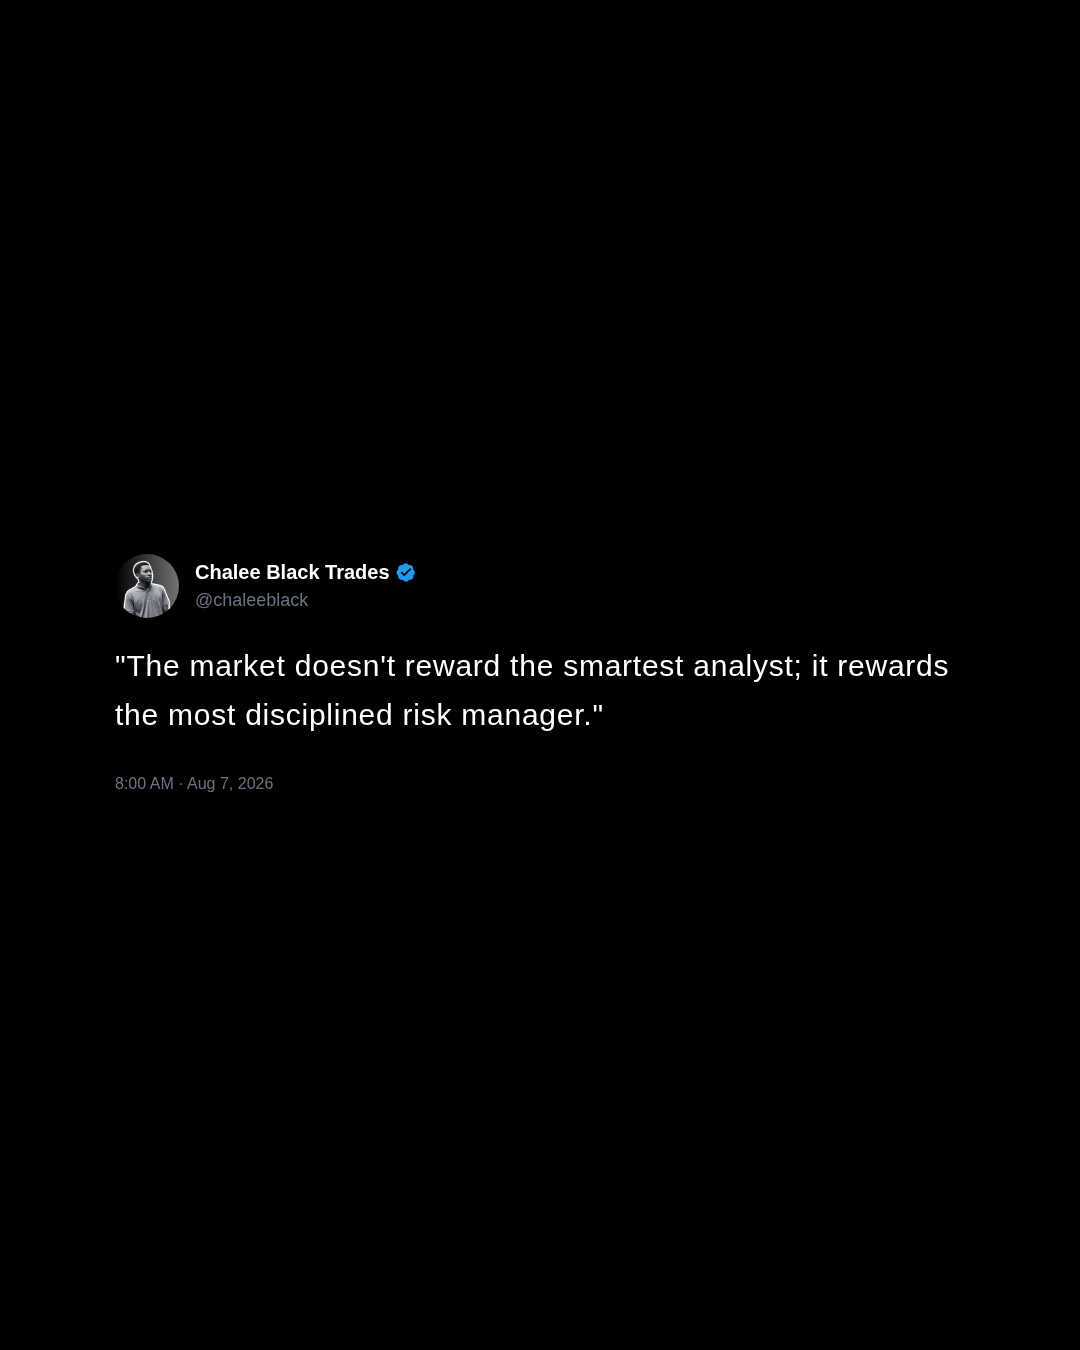
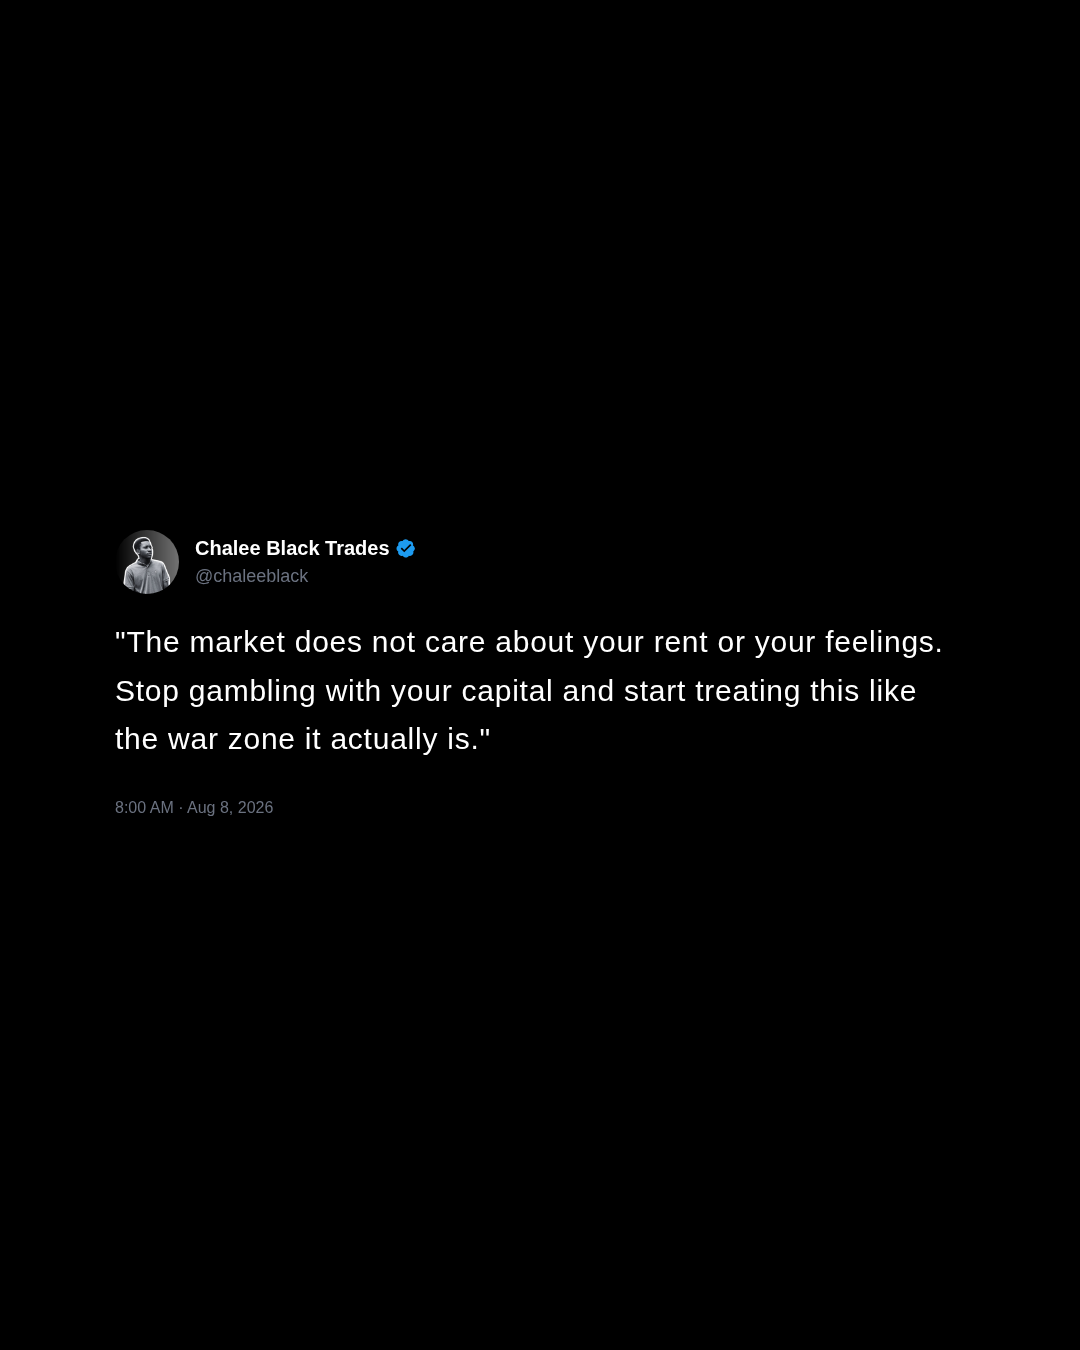
Update agent with JSON brain, Twifork stealth posting, and complete Meta integration. Update README and gitignore

Changed region(s): [[0.0917, 0.3733, 0.8861, 0.6222]]

diff --git a/social_agent/agent.py b/social_agent/agent.py
@@ -1,114 +1,146 @@
 import os
 import asyncio
-import tweepy
+import json
+from datetime import datetime
 from google import genai
 from dotenv import load_dotenv
 from playwright.async_api import async_playwright
 from twikit import Client
+from meta_poster import post_to_meta
 
 # 1. Load Environment Variables
 load_dotenv()
 client = genai.Client()
+base_dir = os.path.dirname(__file__)
 
-def generate_trading_quote():
-    print("Agent is thinking of a quote...")
+# --- NEW: HISTORY LOGIC ---
+def load_history():
+    history_path = os.path.join(base_dir, "history.json")
+    if os.path.exists(history_path):
+        with open(history_path, "r", encoding="utf-8") as f:
+            return json.load(f)
+    return []
+
+def save_history(history_list):
+    history_path = os.path.join(base_dir, "history.json")
+    # Keep only the last 50 quotes to prevent the file from growing forever
+    with open(history_path, "w", encoding="utf-8") as f:
+        json.dump(history_list[-50:], f, indent=4)
+
+# --- UPDATED: GEMINI JSON BRAIN ---
+def generate_trading_content():
+    print("Agent is thinking of a quote and caption...")
+    history = load_history()
+    
     prompt = """
-    You are an expert social media manager for a forex and gold day trader.
-    Write a highly engaging, punchy, and short motivational quote tailored for traders.
-    Focus on psychology, discipline, or risk management.
-    Keep it under 2 sentences. Do not use hashtags. Do not include emojis.
+    You are an expert social media manager and a veteran, battle-scarred forex/gold day trader.
+    Generate content for a daily post. You must return ONLY a raw JSON object. Do not include markdown formatting like ```json.
+    
+    The JSON must have exactly these two keys:
+    1. "image_quote": A highly engaging, punchy, sarcastic but brutally honest motivational quote about trading psychology, discipline, or risk management. Maximum 2 sentences. No hashtags, no emojis.
+    2. "meta_caption": A 3-4 sentence natural, engaging caption that expands on the quote, asks a question to drive engagement, and includes 3-5 relevant hashtags (e.g. #Forex #DayTrading).
     """
     
-    response = client.models.generate_content(
-        model='gemini-3.5-flash',
-        contents=prompt,
-    )
-    return response.text.strip()
+    while True: # Loop until we get a unique quote
+        response = client.models.generate_content(
+            model='gemini-3.1-flash-lite',
+            contents=prompt,
+        )
+        raw_text = response.text.strip()
+        
+        # Clean up Markdown if Gemini accidentally includes it
+        if raw_text.startswith("```"):
+            raw_text = raw_text.replace("```json", "").replace("```", "").strip()
+            
+        try:
+            # Parse the JSON
+            content = json.loads(raw_text)
+            image_quote = content.get("image_quote", "")
+            
+            # Anti-Repeat Check
+            if image_quote not in history:
+                history.append(image_quote)
+                save_history(history)
+                return content # Success! Unique quote found.
+            else:
+                print("Duplicate quote detected! Asking Gemini for a new one...")
+                
+        except json.JSONDecodeError:
+            print("Failed to parse JSON. Asking Gemini to try again...")
 
-import json
-
+# --- X POSTING (Unchanged except parameter name) ---
 async def post_to_x_stealth(quote_text):
-    print("Agent is posting to X using Twikit and Cookies...")
-    client = Client('en-US')
+    print("Agent is posting to X using twifork and Cookies...")
+    twikit_client = Client('en-US')
     
     try:
-        # 1. Load Cookies from state.json to completely bypass login
-        base_dir = os.path.dirname(__file__)
         state_path = os.path.join(base_dir, "state.json")
-        
         with open(state_path, "r", encoding="utf-8") as f:
             cookie_data = json.load(f)
             
-        # Parse the cookies into a dictionary for Twikit
         cookies_list = cookie_data.get("cookies", cookie_data) if isinstance(cookie_data, dict) else cookie_data
         cookies_dict = {c['name']: c['value'] for c in cookies_list}
         
-        client.set_cookies(cookies_dict)
-        
-        # 2. Post the quote!
-        await client.create_tweet(text=quote_text)
+        twikit_client.set_cookies(cookies_dict)
+        await twikit_client.create_tweet(text=quote_text)
         print("SUCCESS! Agent posted to X.")
         
     except Exception as e:
-        print(f"FAILED: {e}")
+        print(f"FAILED to post on X: {e}")
 
+# --- PLAYWRIGHT (Unchanged except parameter name) ---
 async def render_tweet_image(quote_text):
     print("Agent is rendering the high-res Tweet graphic...")
     
-    # Paths setup
-    base_dir = os.path.dirname(__file__)
     template_path = os.path.join(base_dir, "tweet_template.html")
     output_image_path = os.path.join(base_dir, "output", "daily_quote.png")
     
-    # Read HTML Template
+    # Ensure output directory exists
+    os.makedirs(os.path.join(base_dir, "output"), exist_ok=True)
+    
     with open(template_path, "r", encoding="utf-8") as f:
         html_content = f.read()
     
-    from datetime import datetime
-    
-    # Inject Quote Text and Date
     rendered_html = html_content.replace("{{ quote }}", quote_text)
     rendered_html = rendered_html.replace("{{ date }}", datetime.now().strftime("%b %-d, %Y"))
     
-    # Save temporary injected HTML file
     temp_html_path = os.path.join(base_dir, "temp_render.html")
     with open(temp_html_path, "w", encoding="utf-8") as f:
         f.write(rendered_html)
     
-    # Launch Playwright Browser to take screenshot
     async with async_playwright() as p:
         browser = await p.chromium.launch()
-        # Change viewport width/height to 1080x1350 (4:5 Instagram ratio)
         page = await browser.new_page(viewport={"width": 1080, "height": 1350})
-        
-        # Open local HTML file
         await page.goto(f"file://{os.path.abspath(temp_html_path)}")
-        
-        # Take a full 1080x1080 screenshot (Acts like your Canva background)
         await page.screenshot(path=output_image_path)
-            
         await browser.close()
         
-    # Clean up temporary HTML file
     if os.path.exists(temp_html_path):
         os.remove(temp_html_path)
         
     return output_image_path
 
+# --- THE MAIN ORCHESTRATOR ---
 async def main():
-    # Step 1: Generate text
-    quote = generate_trading_quote()
+    # Step 1: Generate structured JSON content
+    content = generate_trading_content()
+    quote = content["image_quote"]
+    caption = content["meta_caption"]
     
     print("\n-------------------------------------------")
-    print(f"QUOTE GENERATED:\n{quote}")
+    print(f"X QUOTE:\n{quote}\n")
+    print(f"META CAPTION:\n{caption}")
     print("-------------------------------------------\n")
     
-    # Step 2: Post the text using Twikit
+    # Step 2: Render Graphic via Playwright
+    image_path = await render_tweet_image(quote)
+    print(f"GRAPHIC GENERATED: {image_path}\n")
+    
+    # Step 3: Post to X using Twikit/Cookies
     await post_to_x_stealth(quote)
     
-    # Step 3: Generate graphic for Facebook / Instagram
-    image_path = await render_tweet_image(quote)
-    print(f"META (FB/IG) GRAPHIC GENERATED: {image_path}\n")
+    # Step 4: Post to Meta (Facebook Page + Instagram Feed)
+    post_to_meta(caption=caption, image_path=image_path)
 
 if __name__ == "__main__":
     asyncio.run(main())

diff --git a/social_agent/meta_poster.py b/social_agent/meta_poster.py
@@ -1,0 +1,105 @@
+import os
+import time
+import requests
+from dotenv import load_dotenv
+
+load_dotenv()
+
+# Meta Credentials
+FB_PAGE_ID = os.getenv("FB_PAGE_ID")
+IG_USER_ID = os.getenv("IG_USER_ID")
+META_ACCESS_TOKEN = os.getenv("META_PAGE_ACCESS_TOKEN")
+
+def post_to_meta(caption: str, image_path: str):
+    """
+    Publishes a local graphic and caption to Facebook Page and Instagram Business Account.
+    """
+    if not all([FB_PAGE_ID, IG_USER_ID, META_ACCESS_TOKEN]):
+        print("[ERROR] FAILED: Missing Meta API credentials in .env file.")
+        return False
+
+    if not os.path.exists(image_path):
+        print(f"[ERROR] FAILED: Image file not found at {image_path}")
+        return False
+
+    print("\n--- STARTING META (FB & IG) PUBLISHING ---")
+
+    # ---------------------------------------------------------
+    # STEP 1: Upload Local Image Binary directly to Facebook Page
+    # ---------------------------------------------------------
+    print("[INFO] 1/4 Uploading graphic and posting to Facebook Page...")
+    fb_photo_url = f"https://graph.facebook.com/v19.0/{FB_PAGE_ID}/photos"
+    
+    try:
+        with open(image_path, "rb") as image_file:
+            fb_payload = {
+                "caption": caption,
+                "access_token": META_ACCESS_TOKEN
+            }
+            fb_files = {"source": image_file}
+            
+            fb_response = requests.post(fb_photo_url, data=fb_payload, files=fb_files)
+            fb_data = fb_response.json()
+
+        if "id" not in fb_data:
+            print(f"[ERROR] Facebook Posting Failed: {fb_data}")
+            return False
+
+        photo_id = fb_data["id"]
+        print(f"[SUCCESS] Published to Facebook Page (Photo ID: {photo_id})")
+
+        # ---------------------------------------------------------
+        # STEP 2: Fetch Meta's Public CDN Image URL for Instagram
+        # ---------------------------------------------------------
+        print("[INFO] 2/4 Fetching public CDN URL for Instagram container...")
+        photo_info_url = f"https://graph.facebook.com/v19.0/{photo_id}?fields=images&access_token={META_ACCESS_TOKEN}"
+        photo_res = requests.get(photo_info_url).json()
+
+        # Meta returns images in multiple sizes; index 0 is the highest resolution
+        public_image_url = photo_res["images"][0]["source"]
+
+        # ---------------------------------------------------------
+        # STEP 3: Create Instagram Media Container
+        # ---------------------------------------------------------
+        print("[INFO] 3/4 Creating Instagram media container...")
+        ig_container_url = f"https://graph.facebook.com/v19.0/{IG_USER_ID}/media"
+        ig_container_payload = {
+            "image_url": public_image_url,
+            "caption": caption,
+            "access_token": META_ACCESS_TOKEN
+        }
+        
+        container_res = requests.post(ig_container_url, data=ig_container_payload).json()
+
+        if "id" not in container_res:
+            print(f"[ERROR] Instagram Container Creation Failed: {container_res}")
+            return False
+
+        container_id = container_res["id"]
+
+        # ---------------------------------------------------------
+        # STEP 4: Publish Instagram Media Container
+        # ---------------------------------------------------------
+        print("[INFO] 4/4 Publishing container to Instagram Business feed...")
+        # Brief sleep to ensure Meta finishes processing the container image
+        time.sleep(3)
+
+        ig_publish_url = f"https://graph.facebook.com/v19.0/{IG_USER_ID}/media_publish"
+        ig_publish_payload = {
+            "creation_id": container_id,
+            "access_token": META_ACCESS_TOKEN
+        }
+
+        publish_res = requests.post(ig_publish_url, data=ig_publish_payload).json()
+
+        if "id" in publish_res:
+            print(f"[SUCCESS] Published to Instagram Feed (Post ID: {publish_res['id']})")
+            print("--- META PUBLISHING COMPLETE ---\n")
+            return True
+        else:
+            print(f"[ERROR] Instagram Publishing Failed: {publish_res}")
+            return False
+
+    except Exception as e:
+        print(f"[ERROR] Meta Pipeline Failed with error: {e}")
+        return False

diff --git a/README.md b/README.md
@@ -1,11 +1,13 @@
 # Social Agent
 
-An autonomous AI agent designed to generate highly engaging, punchy, and short motivational quotes tailored for forex and gold day traders, and automatically post them to X (Twitter) along with a beautifully generated high-resolution graphic.
+An autonomous AI agent designed to generate highly engaging, punchy, and short motivational quotes tailored for forex and gold day traders. The agent automatically renders a beautifully generated high-resolution graphic and posts to X (Twitter), Facebook Pages, and Instagram Business feeds.
 
 ## Features
 
-- **Automated Quote Generation:** Uses Google's Gemini to generate engaging trader-focused quotes.
+- **Automated Quote Generation:** Uses Google's `gemini-3.1-flash-lite` to generate engaging trader-focused quotes and captions formatted as structured JSON.
+- **Anti-Repeat Logic:** Includes a `history.json` mechanism to ensure the agent never posts the same quote twice.
 - **Stealth X Posting:** Uses `twifork` (Twikit) to securely bypass X's anti-bot detection and login walls via cookie injection.
+- **Meta Integrations:** Automatically publishes to a Facebook Page and Instagram Business account via the Meta Graph API.
 - **High-Res Graphics:** Uses Playwright to render a premium Canva-style 1080x1350 graphic based on an HTML/TailwindCSS template.
 
 ## Setup
@@ -13,16 +15,24 @@ An autonomous AI agent designed to generate highly engaging, punchy, and short m
 1. **Clone the repository**
 2. **Install dependencies:** 
    ```bash
-   pip install google-genai python-dotenv playwright twifork
+   pip install google-genai python-dotenv playwright twifork requests
    ```
 3. **Playwright setup:** Run `playwright install chromium`
 4. **Environment Variables:** Create a `.env` file with the following:
    ```env
+   # Gemini
    GEMINI_API_KEY=your_api_key
+
+   # X / Twitter (Optional, credentials bypass handled by state.json)
    X_USERNAME=your_username
    X_PASSWORD=your_password
+
+   # Meta (Facebook & Instagram)
+   FB_PAGE_ID=your_fb_page_id
+   IG_USER_ID=your_ig_user_id
+   META_PAGE_ACCESS_TOKEN=your_meta_access_token
    ```
-5. **Cookie Setup:** Export your X session cookies (using a Chrome extension) and save them as a `state.json` file in the `social_agent` folder.
+5. **X Cookie Setup:** Export your X session cookies (using a Chrome extension) and save them as a `state.json` file in the `social_agent` folder.
 
 ## Usage
 
@@ -30,6 +40,10 @@ Run the agent with:
 ```bash
 python social_agent/agent.py
 ```
+
+## Security
+
+Sensitive files like `.env`, `state.json`, and `history.json` are excluded via `.gitignore` to prevent credentials from being exposed. Ensure you never commit your session cookies or API keys to a public repository!
 
 ## License
 
